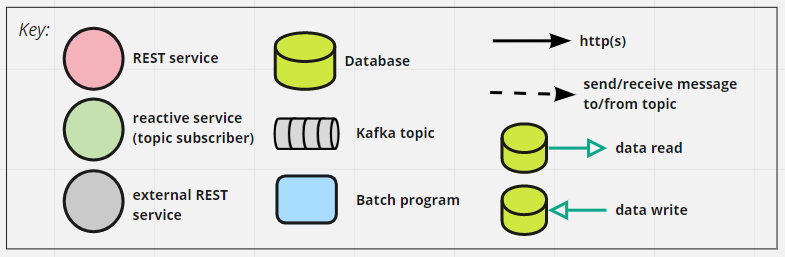
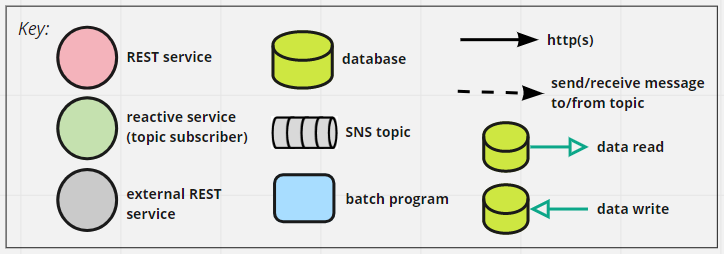
new AWS deployment view; use 'SNS' instead of 'Kafka'

diff --git a/architecture/aws-deployment-view.md b/architecture/aws-deployment-view.md
@@ -1,19 +1,89 @@
 # AWS Deployment View 
-This view shows how the server-side components of the Farmacy Food system can be deployed on the AWS platform. 
+This view shows how the server-side components of the Farmacy Food system can be deployed on the AWS platform. Useful links:
+- This [web page](https://towardsdatascience.com/kubernetes-application-deployment-with-aws-eks-and-ecr-4600e11b2d3c) has
+instructions on how to configure a K8S cluster on EKS using docker images in ECR.
+- This [AWS doc page](https://docs.aws.amazon.com/eks/latest/userguide/eks-networking.html) describes restrictions and
+guidelines for EKS topology.   
 
 ![AWS deployment view](../images/aws-deployment-view-primary.png)
 
 
 ## Element Catalog 
 
-#### EKS
-- [Elastic Kubernetes Service](https://aws.amazon.com/eks/features/) makes it easy to run your system to run on a Kubernetes (K8S)
-cluster in the cloud. Many of the tasks related to creating, configuring, and monitoring K8S nodes and clusters is done for you.
-- EKS runs on EC2 instances inside a private network (VPC) that you define within AWS.
+#### EC2 (EKS node)
+- The [Elastic Kubernetes Service](https://aws.amazon.com/eks/features/) (EKS) allows you to easily configure 
+a Kubernetes (K8S) cluster in the AWS cloud. 
+- Many of the tasks related to creating, configuring, and monitoring K8S nodes and clusters is done for you.
+- A K8S cluster has *worker nodes* that run your application as docker containers that are deployed in *pods*. 
+In EKS, these nodes are EC2 instances inside a private network (VPC) that you define within AWS. 
+- The nodes in an EKS cluster should be in 2+ availability zones (AZs). The diagram illustrates two AZs.  
+- We'll use the EKS cluster to run the following types of components seen in the microservice and EDA views:
+  - microservices that contain REST services
+  - microservices that contain reactive services (topic subscribers)
+  - batch programs
+  
+![AWS deployment view](../images/components-on-k8s.png)
+
+#### EKS control plane
+- This element represents K8S control plane nodes that oversee the execution of pods in the worker nodes. More 
+information [here](https://kubernetes.io/docs/concepts/overview/components/).
+- The EKS control plane executes under an AWS-managed account. That's why it's represented outside the Farmacy Food VPC.
       
+#### ECR 
+- The [Amazon Elastic Container Registry](https://aws.amazon.com/ecr/) (ECR) is a docker container registry that 
+Farmacy Food will use within AWS to store the several docker images comprising the Farmacy Food system.
+- ECR is an alternative to docker-hub. 
+- It's a fully managed service provided by AWS.
+      
+#### RDS with MySQL
+- [RDS](https://aws.amazon.com/rds/) is a relational database managed service by AWS. (There are other options for the 
+database server to be used, such as  Oracle, PostgreSql, Aurora, but MySQL is eligible for AWS free tier and should 
+reduce the upfront investment to set up and explore an AWS dev environment.)       
+- Should be configured with the multi-AZ deployment option for increased availability.
+- The Farmacy Food System will use RDS with MySQL as the master read-write data store to persist different types of data. 
+For example, the **Inventory** database seen below will be configured as a set of tables in RDS.
+
+![AWS deployment view](../images/inventory-db-symbol.png)    
+
+#### Amazon Elasticsearch service
+- The [Elasticsearch service on AWS](https://aws.amazon.com/elasticsearch-service/) (ES) is a fully managed text-based NoSQL 
+database service that the Farmacy Food system will use for query views in different microservices.
+- There will be an ES *domain* for Farmacy Food. This ES domain should use the Farmacy Food VPC to enable automatic
+secure communication between application components (microservices and batch programs) and the ES nodes. 
+- The ES domain should use multi-AZ deployment for increased availability. 
+- The Farmacy Food System will use ES as the *query view* to be accessed by microservices that need to only read data. 
+For example, the **Inventory Query View** database seen below will be configured using ES.
+
+![AWS deployment view](../images/inventory-query-view-db-symbol.png)    
+
+#### SNS
+- The [Amazon Simple Notification Service](https://aws.amazon.com/sns/features/) (SNS) is a fully-managed message broker 
+service that supports publish-subscribe channels (called topics).
+- Components that send messages (producers aka publishers) and receive messages (consumers aka subcribers) can be 
+implemented using various languages and frameworks. For example, we can use the [spring cloud AWS](https://www.baeldung.com/spring-cloud-aws-messaging
+framework.  
+- The various SNS topics seen in the EDA architecture views shall be configured in SNS. 
+
+![AWS deployment view](../images/sns-topic-symbol.png)
+ 
+#### Availability zone A, Availability zone B
+- An [availability zone](https://docs.aws.amazon.com/AWSEC2/latest/UserGuide/using-regions-availability-zones.html#concepts-availability-zones) 
+(AZ) is a data center with its own power supply and network connectivity.
+- AZs are located within regions. Deploying cloud services/resources in 2+ AZs in the same region is the basic mechanism 
+for improved availability due to automatic failover.    
+ 
+#### Subnet A1, A2, B1, B2
+- A [subnet](https://docs.aws.amazon.com/vpc/latest/userguide/what-is-amazon-vpc.html) is a range of IP addresses within 
+a [virtual private cloud](https://docs.aws.amazon.com/vpc/latest/userguide/VPC_Subnets.html) (VPC).
+- Subnets A1 and B1 and *public* subnets, visible to the Internet via an AWS internet gateway.
+- Subnets A2 and B2 are *private* subnets. They can be connected to the Farmacy Food corporate LAN (not shown in the diagram). 
+- Although RDS and ES can be configured outside your VPC, we have them in private "db" subnets in the diagram as a 
+measure to protect them from unauthorized access.  
+ 
  
 ## Related ADRs 
 - [AWS as the cloud provider](../ADRs/ADR006-aws-as-cloud-provider.md)
+- [CQRS pattern](../ADRs/ADR005-cqrs-pattern.md)
 
 ## Related Views
 - [Customer Account Management - microservice view](user-account-mgmt-microservice-view.md)

diff --git a/ADRs/ADR006-aws-as-cloud-provider.md b/ADRs/ADR006-aws-as-cloud-provider.md
@@ -4,13 +4,19 @@ The organization wants to see quick growth in the number of customers and orders
 of the running platform.  
 
 ## Decision 
-The Farmacy Food server-side system will be run on a public cloud. We will use Amazon AWS as the cloud provider.
+The Farmacy Food server-side system will be run on a public cloud. We will use Amazon AWS as the cloud provider, and
+deploy the Farmacy Food system preferably using AWS-managed services.
 
 ## Rationale 
 First off, there are good reasons to deploy on the cloud:
 - In the first Kata session, Kwaku himself said he expects to use the cloud.
 - These days, virtually all startups that rely on a software solution on the Web use a public cloud infrastructure. Startups don't
-have the people and the money to install and manage physical server machines and VMs on top of those. 
+have the people and money needed to install and manage physical server machines and VMs on top of those. 
+- Microservice-based solutions like the Farmacy Food system uses several different infrastructure elements, such as
+web server, container orchestration platform, relational database, NoSQL database, and pub-sub message broker. This
+needed technology diversity increases TCO. Using managed services in the cloud alleviates the burden. For example: 
+using Kafka on premises requires configuring a cluster of ZooKeeper and Kafka servers, with tons of configuration options. 
+It is much easier (for the IT team) to use a managed cloud service, such as AWS SNS or Kinesis.
 - On premises infrastructure do not give the elasticity (horizontal scalability) [required by Farmacy Food](../requirements/quality-attribute-rqmts.md).
 (Twenty years ago, if your website/service went "viral" you would run to Radio Shack to buy more CPUs and call your ISP 
 to increase the link bandwidth. Today, we simply deploy the solution in the cloud.) 
@@ -30,4 +36,5 @@ Proposed
 
 ## Consequences
 - Farmacy Food needs to create an AWS account and hire or train an engineer that is familiar with AWS services.  
-- The CI/CD jobs/pipelines shall include integration with AWS.  
+- The CI/CD jobs/pipelines should include integration with the cloud provider services. For AWS, this is typically done
+via [CloudFormation](https://aws.amazon.com/cloudformation/) (Infrastructure as Code for AWS) and [CodeDeploy](https://aws.amazon.com/codedeploy/).  

diff --git a/ADRs/ADR005-cqrs-pattern.md b/ADRs/ADR005-cqrs-pattern.md
@@ -9,9 +9,10 @@ We will use the [CQRS pattern](https://udidahan.com/2009/12/09/clarified-cqrs/) 
 - an independently deployed service takes care queries. It reads data from a query view that is optimized for data reads.
 ("Optimized" means using DB technologies and techniques that favor performance, such as: NoSQL, desnormalized view, memory cache, sharding, replication.)  
 - an independently deployed service takes care of commands. It may be a REST service that gets POST commands or a reactive service
-that subscribes to a Kafka topic and gets messages that updates the master database for the scope of that service. 
-- a batch component (example: K8S cron job or Kafka connect to the database) synchronizes the data between the master database and the query views. 
-The frequency of data synchronization varies--it can be trigger-based, every 5 minuts, every hour, ..., once a day, etc.   
+that subscribes to a pub-sub topic and gets messages that updates the master database for the scope of that service. 
+- a batch component (example: K8S cron job or logic activated by database-triggered events) synchronizes the data between 
+the master database and the query views. The frequency of data synchronization varies--it can be trigger-based, 
+every 5 minuts, every hour, ..., once a day, etc.   
 
 In our design, we have used CQRS for:
 - Inventory

diff --git a/ADRs/ADR001-microservice-style.md b/ADRs/ADR001-microservice-style.md
@@ -61,9 +61,9 @@ But what we're suggesting can be as simple as:
   - Create a space (e.g., a slack channel) for occasionally discussing changes and evolution of the reference architecture. 
   Later on, when Farmacy Food becomes a larger enterprise, it could be done in an "architecture guild".   
 - Farmacy Food needs a team of developers familiar with microservice development, [microservice patterns](https://microservices.io/),
- as well as with tools and frameworks such as: 
+ as well as with tools and frameworks, such as: 
   - Spring Boot 
   - Docker
   - Kubernetes
-  - Kafka
+  - Spring Cloud AWS
 - The team will also need some basic knowledge around tools for log consolidation, monitoring, and distributed tracing for microservices. 

diff --git a/architecture/replenish-microservice-eda-view.md b/architecture/replenish-microservice-eda-view.md
@@ -19,7 +19,7 @@ This is a microservice architecture. Key patterns used:
 
 #### Replenish BFF for Android
 - Central access point for calls coming from the Replenisher's Android app.
-- Produces inventory events to a Kafka topic for placing or removing meals, and updating stock information.
+- Produces inventory events to a pub-sub topic for placing or removing meals, and updating stock information.
 
 #### Inventory Command
 - Listener to inventory events that correspond to actions taken by the replenisher at the pick-up point. Examples of
